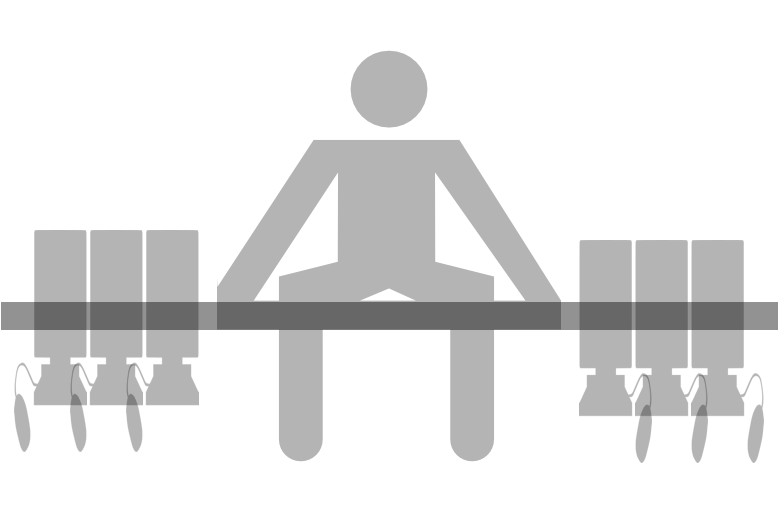
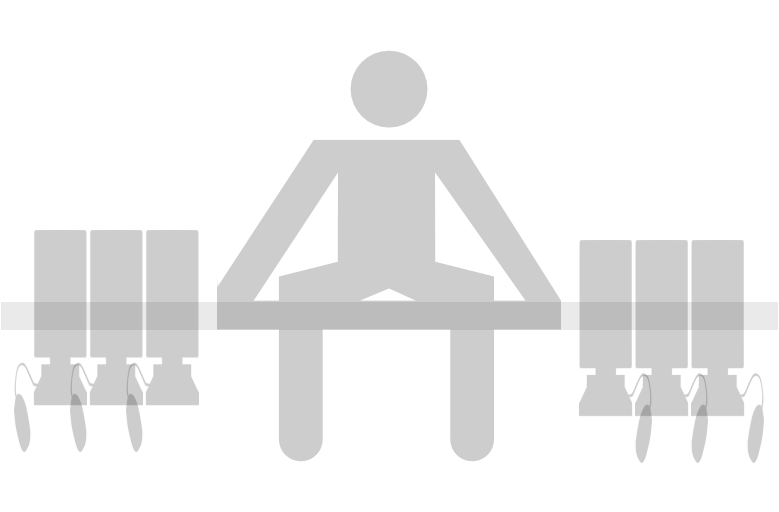
login and register beautify completed

Changed region(s): [[0.0, 0.0938, 1.0, 0.9062]]

diff --git a/users/templates/users/login.html b/users/templates/users/login.html
@@ -1,14 +1,25 @@
 {% extends "learning_notes/base.html" %}
 
 {% block content %}
+  <div class="container login">
     {% if form.errors %}
-        <p> Your username and password do not match. Please try again. </p>
+      <div class="alert alert-danger" role="alert">
+        Your username and password do not match. Please try again. Note that both fields are case-sensitive.
+      </div>
     {% endif %}
 
     <form action = "{% url 'users:login' %}" method = 'POST'>
         {% csrf_token %}
-        {{ form.as_p }}
-        <input type = 'submit' class = 'button submit' value = 'Log in'>
+        <div class="form-group">
+          {{ form.username.label_tag }}
+          {{ form.username }}
+        </div>
+        <div class="form-group">
+          {{ form.password.label_tag }}
+          {{ form.password }}
+        </div>
+        <!-- {{ form.as_p }} -->
+        <input type = 'submit' class = 'btn btn-primary' value = 'Log in'>
         
         <!-- 
         this hidden input text is to pass the url value to the login view. There must be an access to the key 'next' in login view which takes its value as the url to go to after login succeeds
@@ -22,6 +33,7 @@
         {% else %} <!-- in case there is no "next" value, redirect back to home page-->
             <input type = 'hidden' name = 'next' value = "{% url 'learning_notes:index' %}">
         {% endif %}
-        <a href = "{% url 'learning_notes:index' %}" class = "button cancel">Cancel</a> <!-- cancel button -->
+        <a href = "{% url 'learning_notes:index' %}" class = "btn btn-secondary">Cancel</a> <!-- cancel button -->
     </form>
+  </div>
 {% endblock content %}

diff --git a/learning_notes/static/learning_notes/css/mystyle.css b/learning_notes/static/learning_notes/css/mystyle.css
@@ -8,7 +8,7 @@
 }
 
 .jumbotron{
-    background-color: rgba(204, 204, 204, 0.8);
+    background-color: rgba(242, 242, 242, 0.9);
 }
 
 .jumbo.container{
@@ -20,12 +20,12 @@
 .container.topics{
     padding-top: 3.5rem;
     padding-bottom: 3.5rem;
-    width: 25rem;
+    width: 40rem;
     font-size: 30px;
 }
 
 button.topicList{
-    background-color: rgba(204, 204, 204, 0.8);
+    background-color: rgba(242, 242, 242, 0.9);
     color: black;
     border: none;
 }
@@ -82,6 +82,29 @@ div.form-group.newTopic p{
 
 .topicForm{
     font-size: 24px;
+}
+
+/*login.html*/
+ul.errorlist.nonfield{
+    display: none;
+}
+
+.container.login{
+    margin-top: 3rem;
+    margin-left: 4rem;
+    width: 400px;
+    /*background-color: rgba(204, 204, 204, 0.9);*/
+    /*padding-top: 1rem;
+    padding-bottom: 1rem;
+    border-radius: 5%;*/
+    float: left;
+}
+
+.container.register{
+    margin-top: 3rem;
+    width: 600px;
+    background-color: rgba(242, 242, 242, 0.9);
+    padding: 1rem;
 }
 
 

diff --git a/learning_notes/templates/learning_notes/base.html b/learning_notes/templates/learning_notes/base.html
@@ -57,6 +57,8 @@
     <script src="https://cloud.tinymce.com/5/tinymce.min.js"></script>
     <script>tinymce.init({ selector:'textarea' });</script>
 
+    <script type="text/javascript" src="{% static "learning_notes/js/login.js" %}"></script>
+
   </head>
 
   <body class="d-flex flex-column h-100">
@@ -100,7 +102,7 @@
 
     <footer class="footer mt-auto py-3">
       <div class="footer container">
-        <span class="text-muted">&copy; Fanchen Bao 2018-2019. Powered By <a href="https://getbootstrap.com">Bootstrap</a> and <a href="https://django-tinymce.readthedocs.io/en/latest/">django-tinymce</a></span>
+        <span class="text-muted">&copy; Fanchen Bao 2018-2019. Powered By <a href="https://getbootstrap.com">Bootstrap</a>, <a href="https://django-tinymce.readthedocs.io/en/latest/">django-tinymce</a> and <a href="https://fontawesome.com/">Font Awesome</a></span>
       </div>
     </footer>
 

diff --git a/users/templates/users/register.html b/users/templates/users/register.html
@@ -1,11 +1,13 @@
 {% extends "learning_notes/base.html" %}
 
 {% block content %}
+  <div class="container register">
     <form action = "{% url 'users:register' %}" method = 'POST'>
         {% csrf_token %}
         {{ form.as_p }}
-        <input type = 'submit' class = 'button submit' value = 'Register'>
+        <input type = 'submit' class = 'btn btn-primary' value = 'Register'>
 
-        <a href = "{% url 'learning_notes:index' %}" class = "button cancel">Cancel</a> <!-- cancel button -->
+        <a href = "{% url 'learning_notes:index' %}" class = "btn btn-secondary">Cancel</a> <!-- cancel button -->
     </form>
+  </div>
 {% endblock content %}

diff --git a/learning_notes/static/learning_notes/js/login.js b/learning_notes/static/learning_notes/js/login.js
@@ -1,0 +1,7 @@
+// This function runs NOT when the page is ready, but when the page is FULLY LOADED.
+// It's basically asynchronous. Given that the form takes time to be rendered, 
+// changes made to the form's elements must be called AFTER the form has already been loaded.
+$(window).on('load', function() {
+  $('#id_username').attr({class:'form-control', placeholder:'Username'});
+  $('#id_password').attr({class:'form-control', placeholder:'Password'});
+});

diff --git a/learning_notes/templates/learning_notes/archive_user_topics.html b/learning_notes/templates/learning_notes/archive_user_topics.html
@@ -2,7 +2,7 @@
 
 {% block content %}
   <div class="container topics">
-    <h2>User: <i>{{archive_user.username}}</i></h2>
+    <h2>User: <em>{{archive_user.username}}</em></h2>
     <h3>Archived Topics:</h3>
     <div class="list-group">
       {% for topic in topics %}
